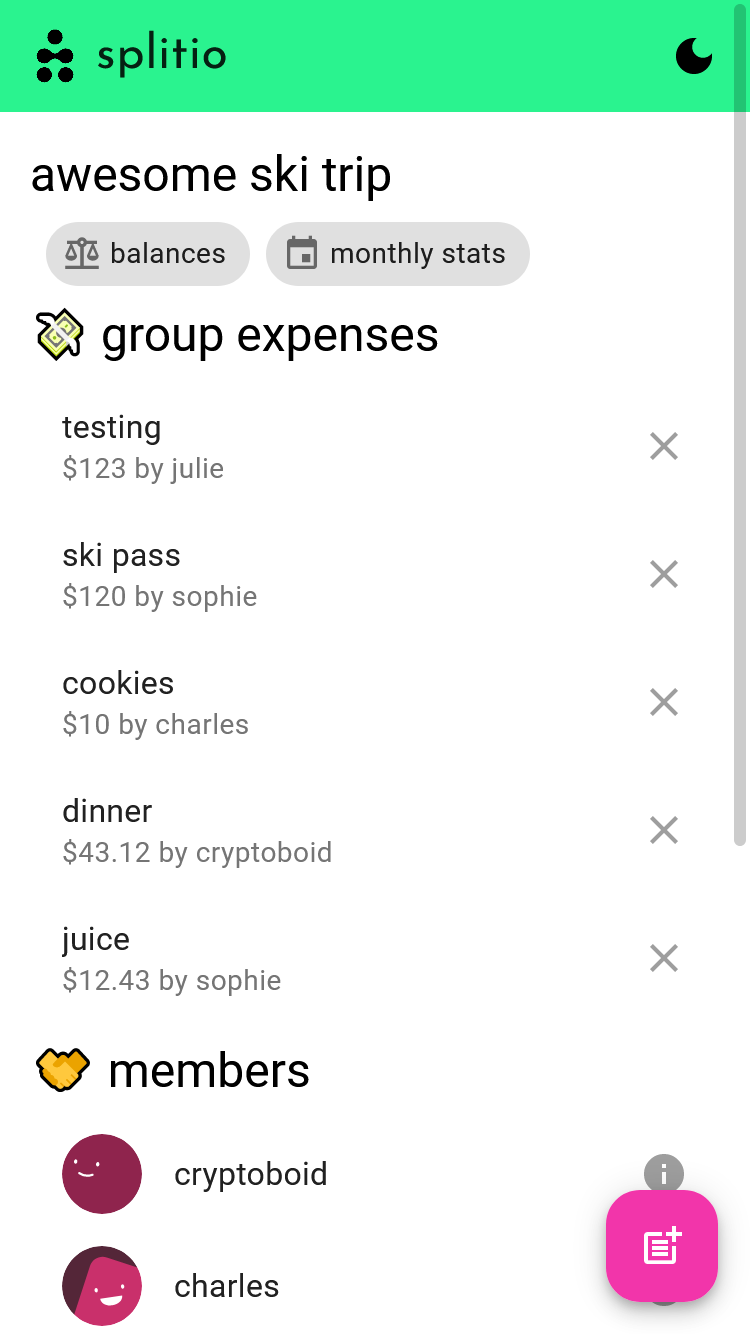
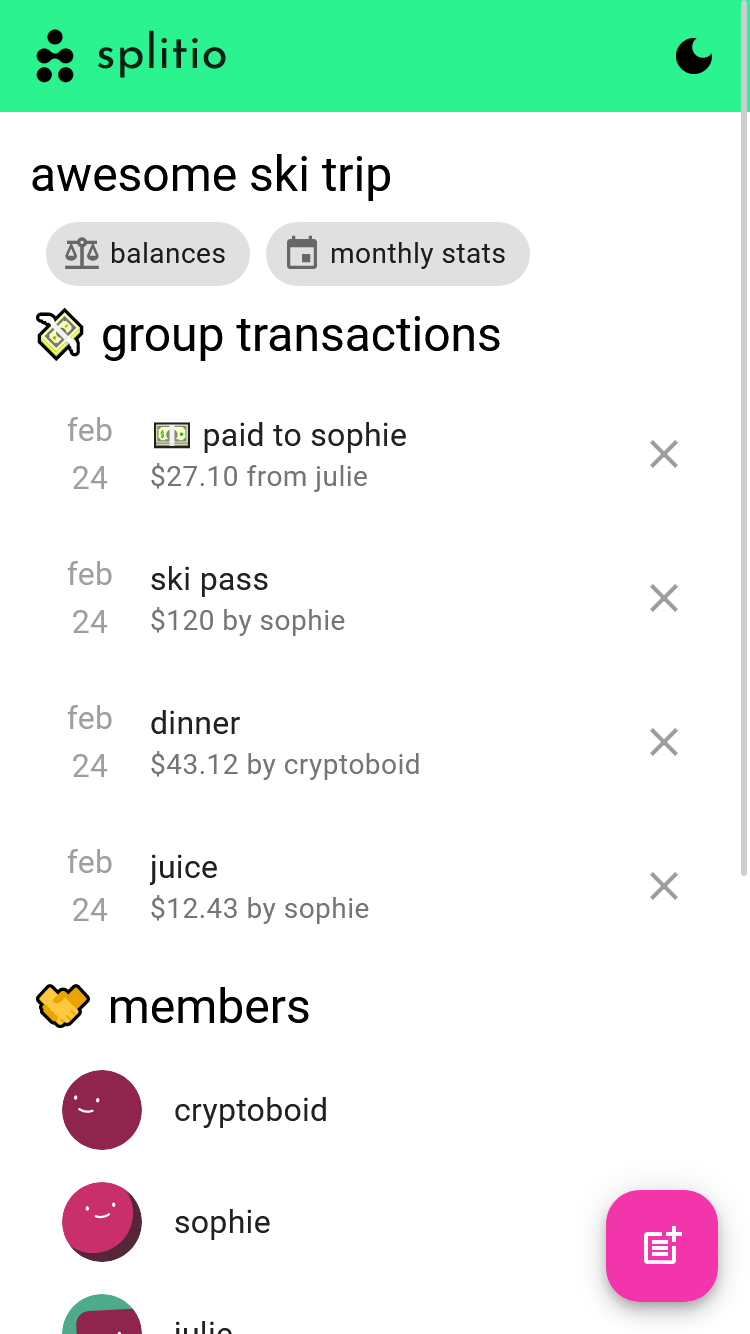
updated README with latest features

diff --git a/README.md b/README.md
@@ -24,18 +24,25 @@ information is p2p distributed using gun and end-to-end encrypted using gun/sea.
 built with SvelteKit and GunDB.
 </p>
 
+## 🤔 how to use
+
+1. go to https://splitio.vercel.app (or self-host yours!)
+2. create a group with any name
+3. send your friends the long url to start sharing bills! no accounts required
+
 ## 🌟 showcase
 <table>
 <tr>
     <a href=""><img width="21%" src="./screenshots/screen1.png"/></a>
     <a href=""><img width="21%" src="./screenshots/screen4.png"/></a>
-    <a href=""><img width="21%" src="./screenshots/screen6.png"/></a>
+    <a href=""><img width="21%" src="./screenshots/screen2.png"/></a>
     <div/>
 </tr>
 <tr>
-    <a href=""><img width="21%" src="./screenshots/screen2.png"/></a>
     <a href=""><img width="21%" src="./screenshots/screen3.png"/></a>
     <a href=""><img width="21%" src="./screenshots/screen5.png"/></a>
+    <a href=""><img width="21%" src="./screenshots/screen6.png"/></a>
+
 </tr>
 </table>
 
@@ -43,7 +50,8 @@ built with SvelteKit and GunDB.
 
 some extra desired features/fixes are:
 - ~~compute who-owes-what~~ (done!)
-- add settlements
+- ~~add settlements~~ (done! just click on who you want to pay in the balances dialog)
+- ~~show date in group transactions~~ (done!)
 - calculate monthly stats (expenses amount in last 30 days)
 - allow changing currency symbol ($, €, ¥, etc)
 - ~~favorite a group for easy access in PWA (or provide some kind of shortcut)~~ (disabled PWA for now)
@@ -55,6 +63,12 @@ some extra desired features/fixes are:
 2. install npm packages: `npm install`
 3. start the server (with hot reloading): `npm run dev`
 4. navigate to [localhost:3000](http://localhost:5000)
+
+## ⚠ disclaimer
+
+even though all information is encrypted and decrypted on-device (e2ee), i'm not a security expert. given this, i'm looking for more people to review the encryption code and fix any vulnerabilities.
+
+also, as the code uses Gun with community servers and localStorage, persisting data for long amounts of time could be an issue. try to open your group often to get more devices updated. in the future, i should probably self-host a Gun relay, though i don't currently have the means necessary.
 
 ## ⚖ license
 
